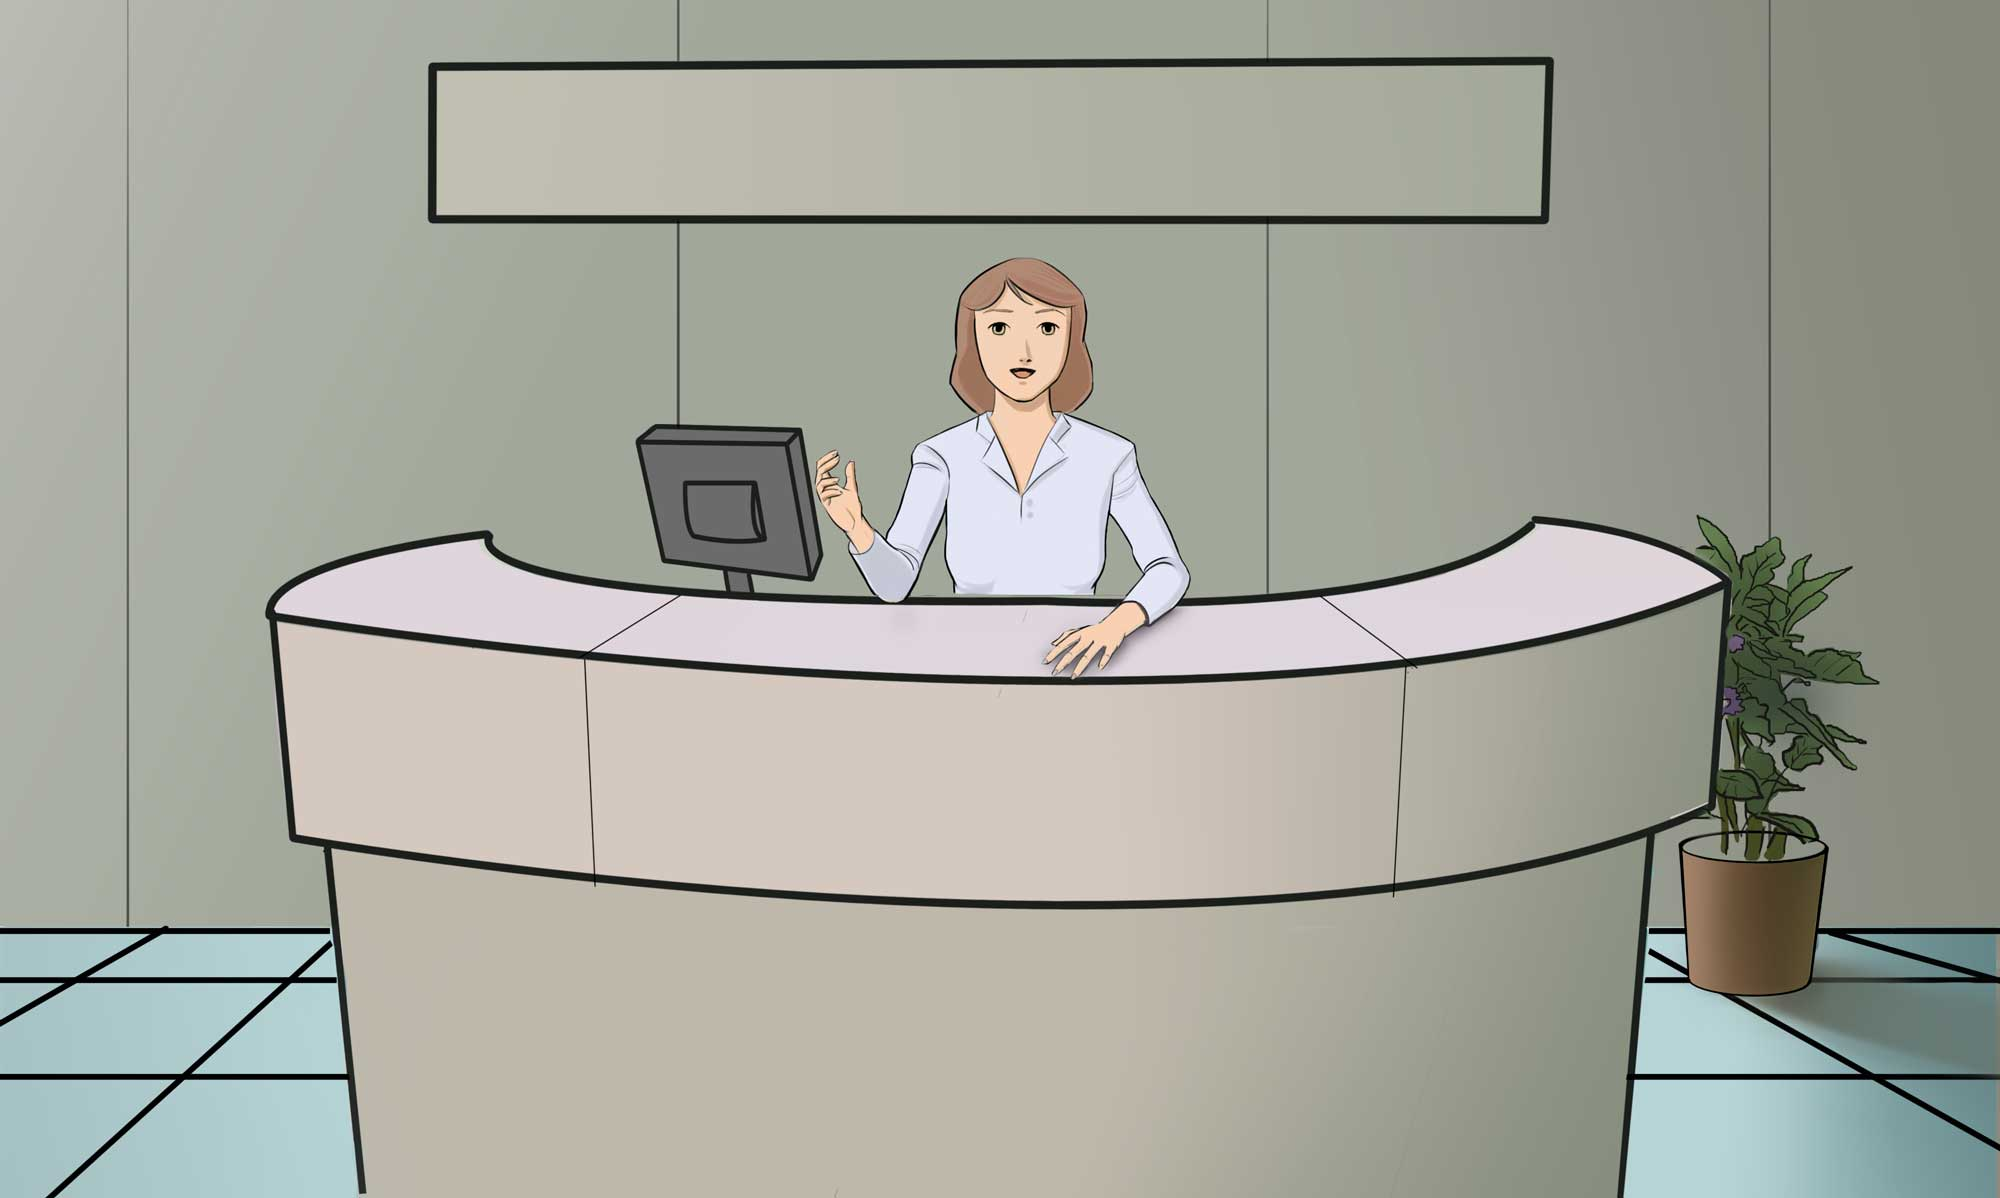
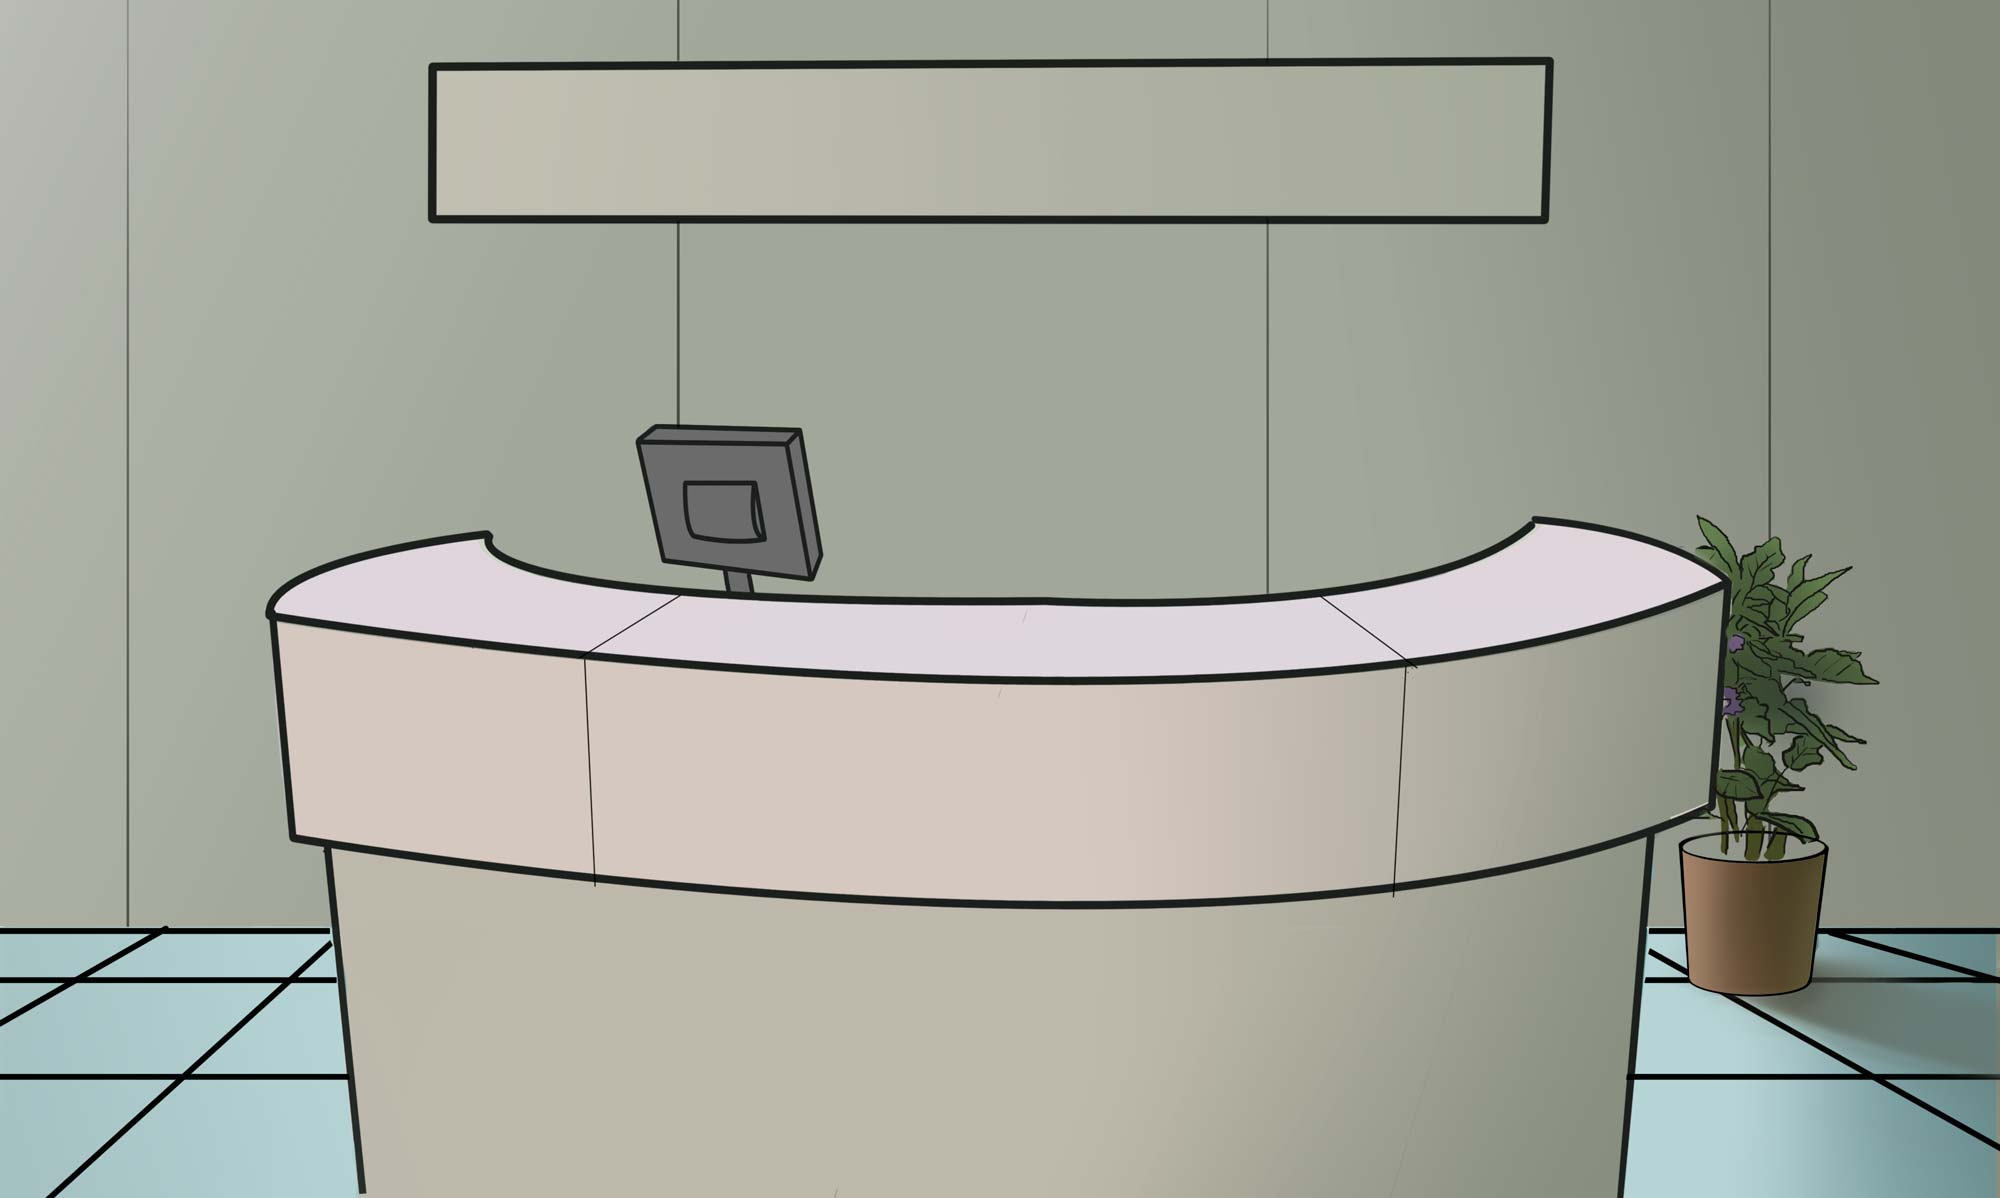
Changes on dialog and interactiveObjects
Added an outer div to the dialogBar div so all interactiveObjects will be "below" the dialogBar-mask (black background with 70% opacity);
Interactive Objects now shows their tooltip as a customized balloon where the name of the action is showed.

Changed region(s): [[0.403, 0.2162, 0.62, 0.5868]]

diff --git a/src/javascript/engine/modules/interactive_objects/InteractiveObjectsController.js b/src/javascript/engine/modules/interactive_objects/InteractiveObjectsController.js
@@ -65,6 +65,20 @@ define(['text!../assets/html/templates/interactiveObjectTemplate.html'], functio
         element.attr('title', _interactiveObject.getName());
         element.attr('id', _interactiveObject.getId());
         element.addClass(_interactiveObject.getCssClass());
+        element.tooltip({
+            position: {
+                my: "center bottom-20",
+                at: "center top",
+                using: function( position, feedback ) {
+                    $( this ).css( position );
+                    $( "<div>" )
+                        .addClass( "arrow" )
+                        .addClass( feedback.vertical )
+                        .addClass( feedback.horizontal )
+                        .appendTo( this );
+                }
+            }
+        });
         if (_interactiveObject.isEnabled())
             element.addClass("enabled");
         else
@@ -109,6 +123,7 @@ define(['text!../assets/html/templates/interactiveObjectTemplate.html'], functio
         element.removeClass("disabled");
         element.addClass("enabled");
         element.click(_interactiveObject.getFunction());
+        element.tooltip("enable");
     }
 
     /**
@@ -124,6 +139,8 @@ define(['text!../assets/html/templates/interactiveObjectTemplate.html'], functio
         element.removeClass("enabled");
         element.addClass("disabled");
         element.unbind("click");
+        element.tooltip("disable");
+
     }
 
     /**

diff --git a/src/assets/css/gameLayout/main.less b/src/assets/css/gameLayout/main.less
@@ -50,6 +50,21 @@ html, body {
   height: 100%;
 }
 
+#interactiveObjects {
+  width: 100%;
+  height: 100%;
+}
+
+#dialogBar-mask {
+  position: absolute;
+  display: none;
+  background-color: rgba(0, 0, 0, 0.7);
+  width: 100%;
+  height: 100%;
+  top: 0;
+  left : 0;
+}
+
 #commandBar {
   width: 100%;
   height: 20%;
@@ -154,4 +169,50 @@ html, body {
 .backButton:hover {
   &:extend(.menuButton:hover);
 }
-	
+
+.ui-tooltip, .arrow:after {
+  background: rgba(0, 0, 0, 0.5);
+  boder: 2px solid white;
+}
+.ui-tooltip {
+  float: left;
+  position: absolute;
+  padding: 10px 20px;
+  color: white;
+  font: bold 14px "Helvetica Neue", Sans-Serif;
+  //text-transform: uppercase;
+  box-shadow: 0 0 7px black;
+}
+.arrow {
+  width: 70px;
+  height: 16px;
+  overflow: hidden;
+  position: absolute;
+  left: 50%;
+  margin-left: -35px;
+  bottom: -16px;
+}
+
+.arrow.top {
+  top: -16px;
+  bottom: auto;
+}
+.arrow.left {
+  left: 20%;
+}
+.arrow:after {
+  content: "";
+  position: absolute;
+  left: 20px;
+  top: -20px;
+  width: 25px;
+  height: 25px;
+  box-shadow: 6px 5px 9px -9px black;
+  -webkit-transform: rotate(45deg);
+  -ms-transform: rotate(45deg);
+  transform: rotate(45deg);
+}
+.arrow.top:after {
+  bottom: -20px;
+  top: auto;
+}

diff --git a/src/assets/html/screens/gameContainer.html b/src/assets/html/screens/gameContainer.html
@@ -7,18 +7,18 @@
         </div>
         <div id="modalScene"></div>
         <div id="interactiveObjects"></div>
-        <div id="dialogBar">
-                <div class="dialog_charName"></div>
-                <div id="dialog_charImg"></div>
-            <div class="dialog_left">
-                <div class="dialog_mainText"></div>
-                <div class="dialog_options"></div>
-            </div>
-            <div class="dialog_right">
-
+        <div id="dialogBar-mask">
+            <div id="dialogBar">
+                    <div class="dialog_charName"></div>
+                    <div id="dialog_charImg"></div>
+                <div class="dialog_left">
+                    <div class="dialog_mainText"></div>
+                    <div class="dialog_options"></div>
+                </div>
+                <div class="dialog_right">
+                </div>
             </div>
         </div>
-
     </div>
     <!-- commandBar fica na parte inferior da fase 20% restantes-->
     <div id="commandBar"></div>

diff --git a/src/javascript/engine/modules/dialogs/DialogsController.js b/src/javascript/engine/modules/dialogs/DialogsController.js
@@ -52,7 +52,8 @@ define(['text!../assets/html/templates/dialogButtonTemplate.html'], function (di
 
         //$(dialogModalSelector).css("display", "table");
         //$(dialogModalSelector).hide()
-        $("#interactiveArea").toggleClass("interactiveArea-mask");
+
+        $("#dialogBar-mask").show();
         $(dialogModalSelector).show("fade",{
             duration: 200,
             complete: function() {
@@ -150,8 +151,8 @@ define(['text!../assets/html/templates/dialogButtonTemplate.html'], function (di
      */
     function close() {
 
+        $("#dialogBar-mask").hide();
         $(dialogModalSelector).hide("fade", 200);
-        $("#interactiveArea").toggleClass("interactiveArea-mask");
         isDialogOpen = false;
     }
 

diff --git a/src/assets/css/gameLayout/interactiveObjects.less b/src/assets/css/gameLayout/interactiveObjects.less
@@ -1,18 +1,13 @@
 .interactiveObject {
   position: absolute;
-  border-radius: 20px;
-  //border: 2px  gray;
-}
-
-.interactiveObject:hover {
-  box-shadow: 1px 1px 10px black;
 }
 
 .intObj-talkToReceptionist {
-  top: @intObj-talkToReceptionist-top;
-  left: @intObj-talkToReceptionist-left;
-  width: @intObj-talkToReceptionist-width;
-  height: @intObj-talkToReceptionist-height;
+  background-image: url(../images/interactiveObjects/intObj-receptionist.png);
+  width: 242px;
+  height: 263px;
+  top: 157px;
+  left: 488px;
 }
 
 .intObj-lobbyToHallway-left {

diff --git a/src/assets/css/gameLayout/gameConfig.less b/src/assets/css/gameLayout/gameConfig.less
@@ -154,10 +154,6 @@ https://interfacelift.com/wallpaper/details/3335/rotsteinpass.html - "Rotsteinpa
 
 //  interactiveObjects
 @intObj-goToHallway-width: 10%;
-@intObj-talkToReceptionist-top: 23%;
-@intObj-talkToReceptionist-left: 45%;
-@intObj-talkToReceptionist-width: 12%;
-@intObj-talkToReceptionist-height: 22%;
 @intObj-goToNursingStation-top: 38%;
 @intObj-goToNursingStation-left: 40%;
 @intObj-goToNursingStation-height: 12%;
